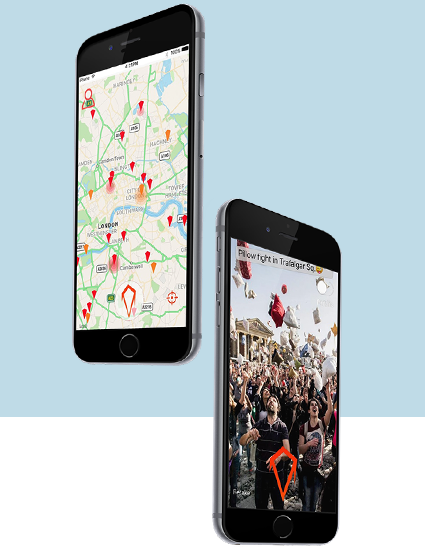
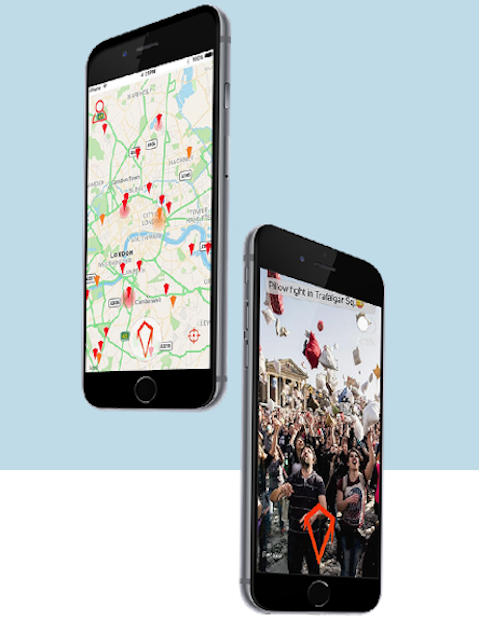
changed layout round

diff --git a/public/scrollMagic.js b/public/scrollMagic.js
@@ -10,74 +10,77 @@ var controller = new ScrollMagic.Controller({globalSceneOptions: {triggerHook: 0
    duration: '100%',
    triggerElement: "#sec1"})
       .setClassToggle("#menu1", "active") // add class toggle
-      .addIndicators()
       .addTo(controller);
 
   var scene1b = new ScrollMagic.Scene({
     triggerElement: "#photo1",
     duration: 350})
        .setPin('#sec1-text')
-       .addIndicators()
        .addTo(controller);
 
 var scene2 = new ScrollMagic.Scene({
   triggerElement: "#sec2",
-  duration: '100%',})
+  offset: -100,
+  duration: '80%',})
     .setClassToggle("#menu2", "active") // add class toggle
-    .addIndicators()
     .addTo(controller);
-
   var scene2b = new ScrollMagic.Scene({
-    triggerElement: "#photo2",
-    duration: 350})
-       .setPin('#sec2-text')
-       .addIndicators()
-       .addTo(controller);
+    triggerElement: "#sec2",
+    offset: -150,
+    // duration: 200,
+    })
+     .setTween('#sec2-line', 0.5, {scale: 1.5})
+     .addIndicators()
+     .addTo(controller);
 
 var scene3 = new ScrollMagic.Scene({
   triggerElement: "#sec3",
-  duration: '100%'})
+  duration: '200%'})
     .setClassToggle("#menu3", "active") // add class toggle
-    .addIndicators()
     .addTo(controller);
   var scene3b = new ScrollMagic.Scene({
     triggerElement: "#photo3",
     duration: 350})
        .setPin('#sec3-text')
-       .addIndicators()
        .addTo(controller);
 
 var scene4 = new ScrollMagic.Scene({
   duration: '100%',
   triggerElement: "#sec4"})
     .setClassToggle("#menu4", "active") // add class toggle
-    .addIndicators()
     .addTo(controller);
   var scene4b = new ScrollMagic.Scene({
     triggerElement: "#photo4",
     duration: 350})
        .setPin('#sec4-text')
-       .addIndicators()
        .addTo(controller);
 
 var scene5 = new ScrollMagic.Scene({
-  duration: '100%',
+  duration: '200%',
   triggerElement: "#sec5"})
     .setClassToggle("#menu5", "active") // add class toggle
-    .addIndicators()
     .addTo(controller);
   var scene5b = new ScrollMagic.Scene({
     triggerElement: "#photo5",
     duration: 350})
        .setPin('#sec5-text')
-       .addIndicators()
        .addTo(controller);
 
 var scene6 = new ScrollMagic.Scene({
   duration: '100%',
   triggerElement: "#sec6"})
     .setClassToggle("#menu6", "active") // add class toggle
-    .addIndicators()
+    .addTo(controller);
+  var scene6b = new ScrollMagic.Scene({
+    triggerElement: "#photo6",
+    duration: 350})
+       .setPin('#sec6-text')
+       .addTo(controller);
+
+var scene7 = new ScrollMagic.Scene({
+  duration: '100%',
+  triggerElement: "#sec7"})
+    .setClassToggle("#menu7", "active") // add class toggle
     .addTo(controller);
 
 // )}

diff --git a/public/Gstylesheet.css b/public/Gstylesheet.css
@@ -22,7 +22,7 @@ nav.site-navigation-bar {
 
 nav.site-navigation-bar li{
   padding-left: 0x;
-  margin-top: 50px;
+  margin-top: 40px;
   width: 100%;
   list-style: none;
   text-align: right;
@@ -44,7 +44,7 @@ nav.site-navigation-bar a:hover {
 
 .wrapper1 {
   padding-left: 200px;
-  width: 80%;
+  width: 82%;
   font-family: 'Cutive Mono', monospace;
   /*position: relative;*/
 }
@@ -60,7 +60,7 @@ nav.site-navigation-bar a:hover {
 
 #sec1-text {
   position: absolute;
-  left: 50%;
+  left: 48%;
   right: 0;
 
 }
@@ -69,18 +69,32 @@ nav.site-navigation-bar a:hover {
   width: 100%;
   position: relative;
   margin-top: 250px;
+  height: 60vh !important;
 }
 
 #sec2-text {
   position: absolute;
   max-width: 100%;
   height: auto;
+  text-align: right;
+  z-index: 19;
+}
+
+#sec2-line {
+  position: absolute;
+  left: 30%;
+  top: 20%;
+  max-width: 100%;
+  height: auto;
+  z-index: 20;
 }
 
 #sec2-photo {
   position: absolute;
-  left: 50%;
-  right: 0;
+  width: 55%;
+  left: 48%;
+  top: 30%;
+  z-index: 18;
 }
 
 #sec3 {
@@ -91,13 +105,13 @@ nav.site-navigation-bar a:hover {
 
 #sec3-photo {
   position: absolute;
-  max-width: 100%;
+  max-width: 120%;
   height: auto;
 }
 
 #sec3-text {
   position: absolute;
-  left: 50%;
+  left: 47%;
   right: 0;
   width: 50%;
 }
@@ -110,15 +124,16 @@ nav.site-navigation-bar a:hover {
 
 #sec4-text {
   position: absolute;
+  right: 55%;
   max-width: 100%;
   height: auto;
+  text-align: right;
 }
 
 #sec4-photo {
   position: absolute;
-  left: 50%;
+  left: 47%;
   right: 0;
-  width: 50%;
 }
 
 #sec5 {
@@ -135,9 +150,29 @@ nav.site-navigation-bar a:hover {
 
 #sec5-text {
   position: absolute;
-  left: 50%;
+  left: 47%;
   right: 0;
   width: 50%;
+}
+
+#sec6 {
+  width: 100%;
+  position: relative;
+  margin-top: 250px;
+}
+
+#sec6-text {
+  position: absolute;
+  right: 55%;
+  max-width: 100%;
+  height: auto;
+  text-align: right;
+}
+
+#sec6-photo {
+  position: absolute;
+  left: 47%;
+  right: 0;
 }
 
 .wrapper1 div{
